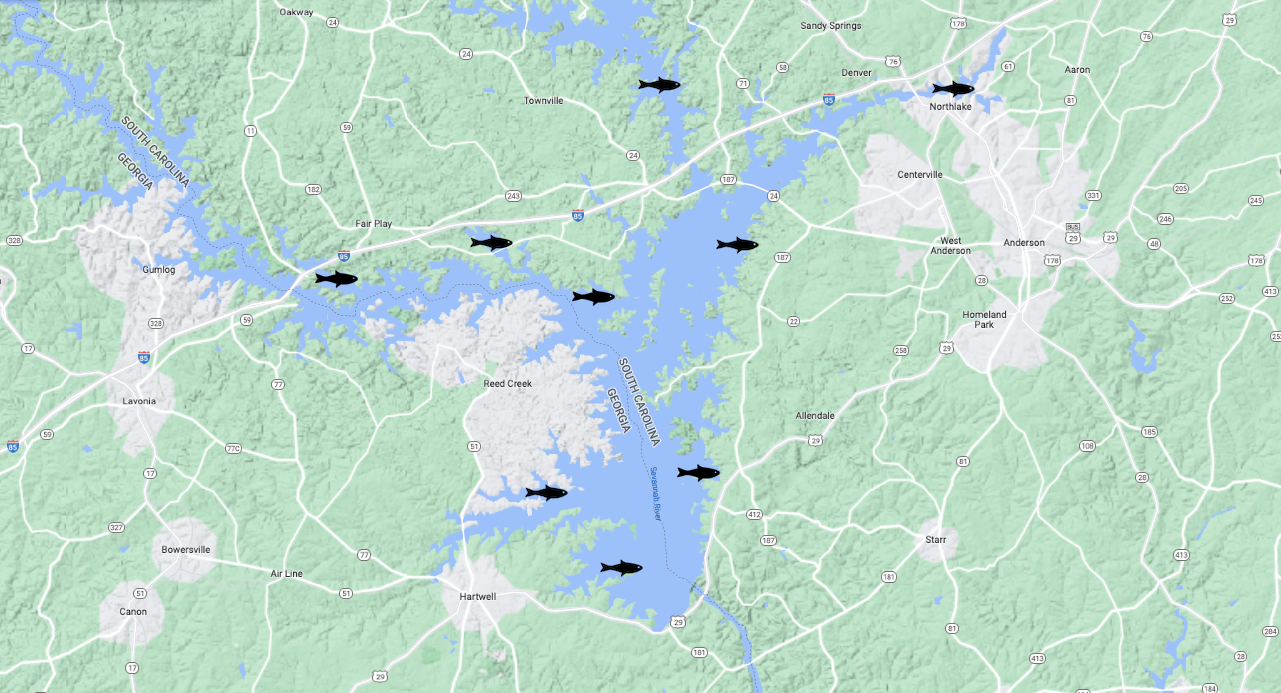
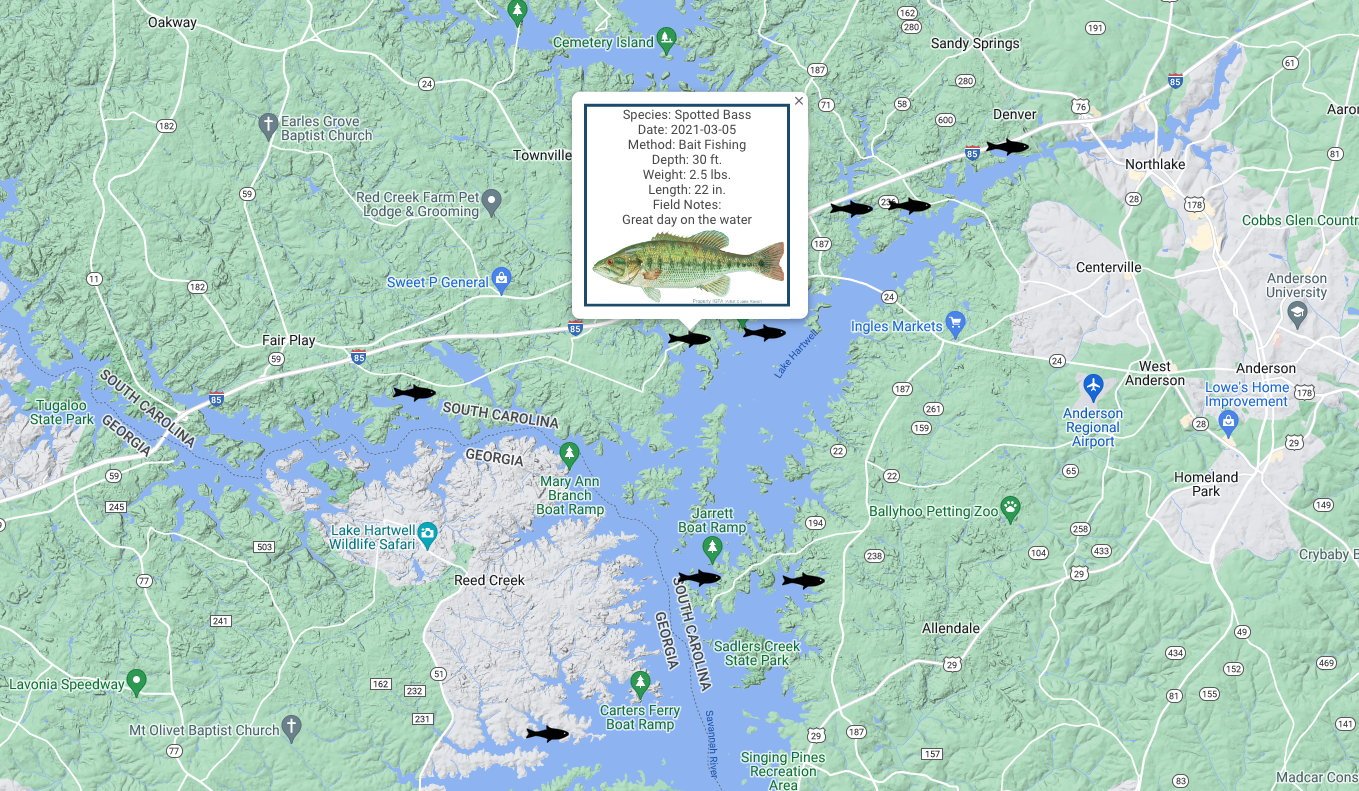
added map img to homepage

diff --git a/fish_finder_project/fish_finder_frontend/src/pages/CatchMap.jsx b/fish_finder_project/fish_finder_frontend/src/pages/CatchMap.jsx
@@ -69,7 +69,7 @@ function CatchMap() {
 
         // process is undefined
         // googleMapsApiKey: { process.env.REACT_APP_GOOGLE_MAPS_API },
-        googleMapsApiKey: "AIzaSyCvRBwjBlzY9tMrm46tx6ksnRzGvxvUI5U",
+        googleMapsApiKey: "",
         // -=-=-=-=-=-=-=-=-=-=-=-=-=-=-=-=-=-=-=-=-=-=-=-=-=-=-=-=-=-=-=-=-=-=-=-=-=-=-=-=-=-=-=-=-=-=-=-=-=-
         //  R E P L A C E   T H I S   L I N E   W I T H   G O O G L E   M A P S   K E Y
         // -=-=-=-=-=-=-=-=-=-=-=-=-=-=-=-=-=-=-=-=-=-=-=-=-=-=-=-=-=-=-=-=-=-=-=-=-=-=-=-=-=-=-=-=-=-=-=-=-=-

diff --git a/fish_finder_project/fish_finder_frontend/src/components/MapImage.jsx b/fish_finder_project/fish_finder_frontend/src/components/MapImage.jsx
@@ -1,5 +1,5 @@
 import React from 'react';
-import map from '../assets/map.jpg'
+import map from '../assets/map_icon.jpg'
 
 function MapImage() {
   return (
